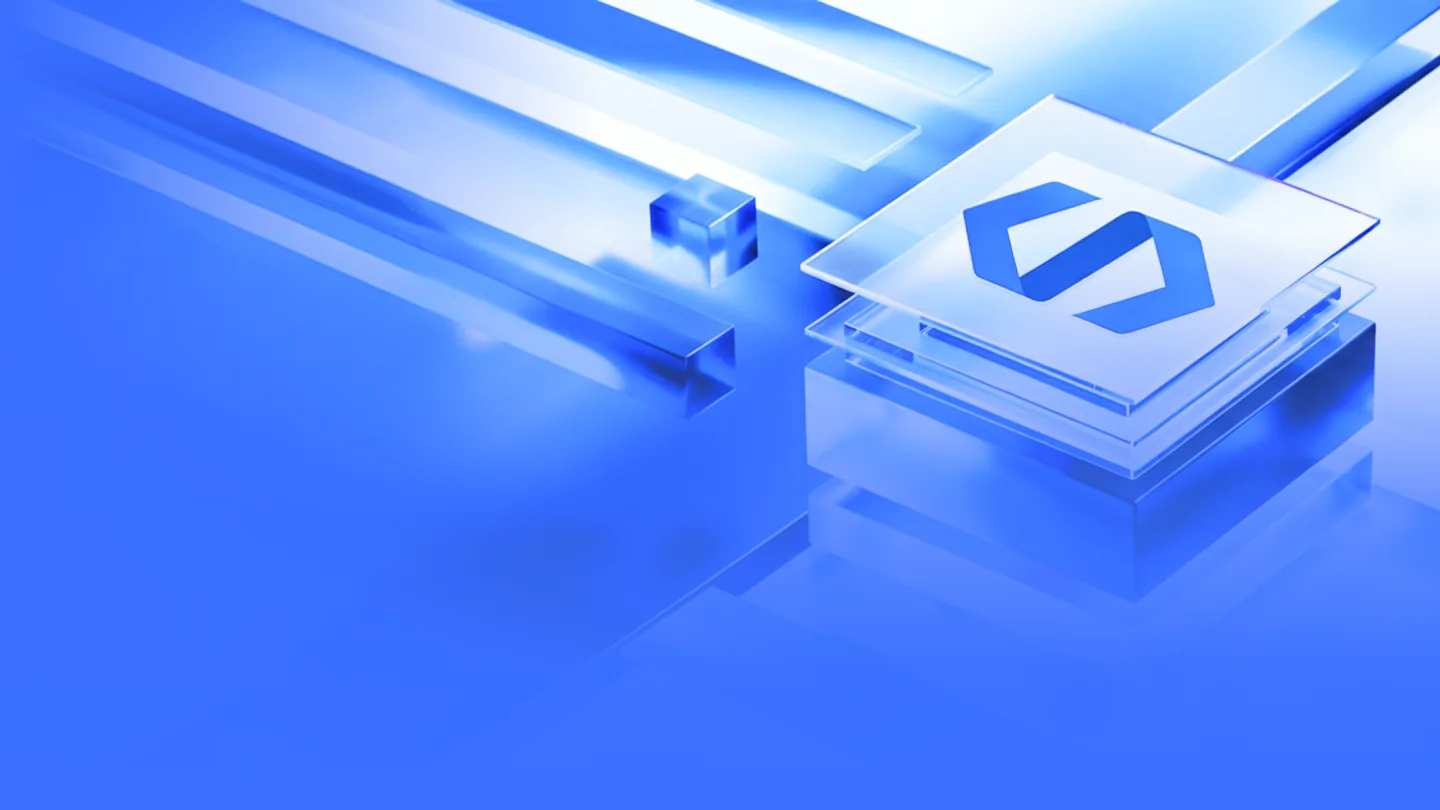
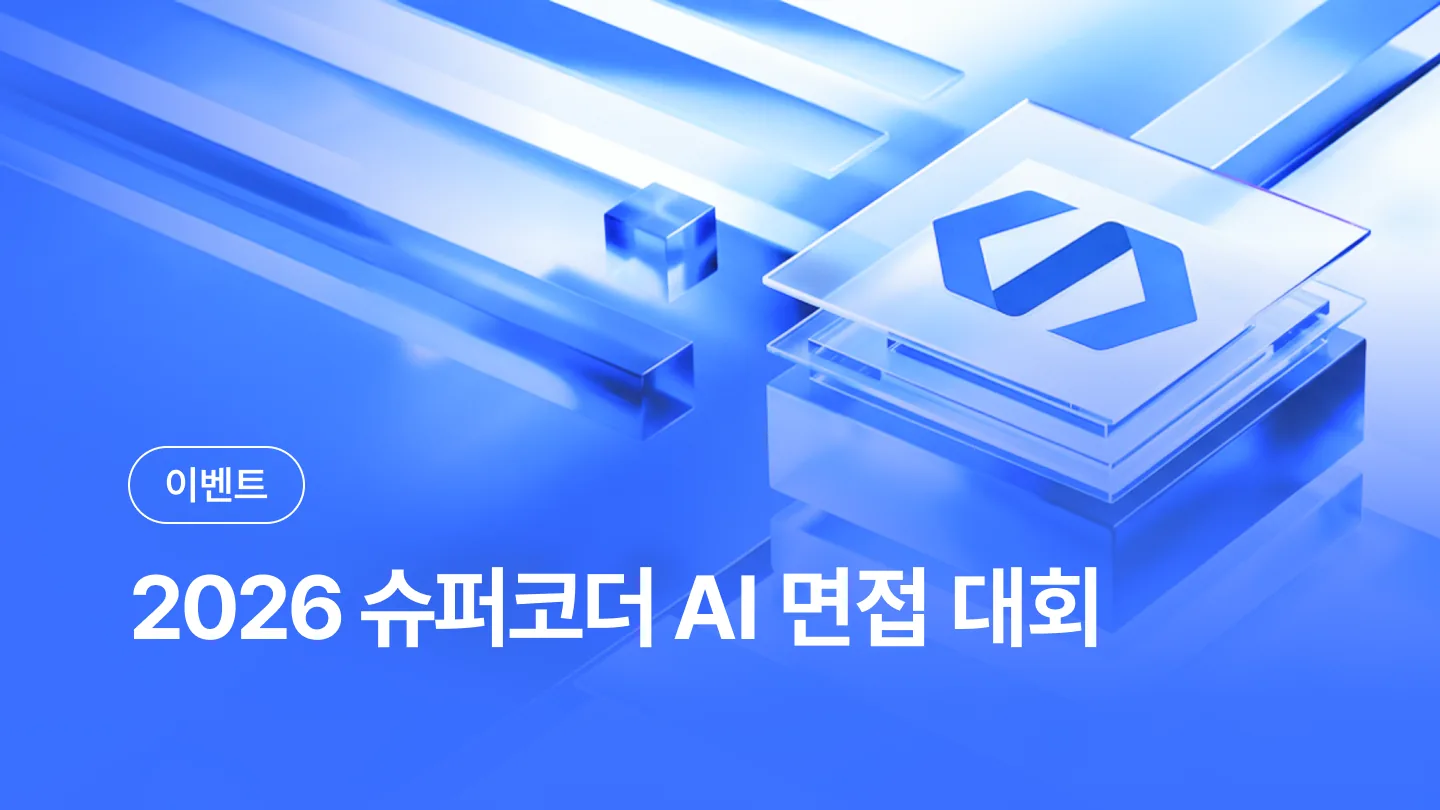
feat: 팝업 이미지 교체 — 칩·행사명이 이미지에 포함된 최종판
사용자 제작 '팝업창 1440x810.png'(PNG 897KB → WebP 48KB, q82).
'이벤트' 칩과 행사명이 이미지 안에 디자인되어 있어 HTML 오버레이
(.evp-visual-txt·칩·타이틀)와 하단 그라데이션을 제거했다 — 남겨두면
글자가 이중으로 겹친다. 행사명은 img alt가 읽는다.
글자 없는 이미지로 되돌릴 땐 2ac2a9d의 오버레이 마크업 참고.

diff --git a/app/globals.css b/app/globals.css
@@ -95,13 +95,10 @@ h2{font-size:clamp(28px,3.6vw,44px);font-weight:700;letter-spacing:-.02em;line-h
 .evp{position:relative;width:min(420px,100%);background:#fff;border-radius:var(--r);overflow:hidden;box-shadow:0 30px 80px -20px rgba(8,13,28,.5);animation:evpUp .3s ease}
 @keyframes evpFade{from{opacity:0}}
 @keyframes evpUp{from{opacity:0;transform:translateY(14px)}}
-/* 비주얼: 16:9 이미지 위에 행사명 오버레이 — 이미지의 주요 요소가 오른쪽 위라 글자는 왼쪽 아래 */
+/* 비주얼: 16:9 이미지 — '이벤트' 칩·행사명이 이미지 안에 디자인되어 있어 오버레이 없음
+   (글자 없는 이미지용 오버레이 마크업·스타일은 git 2ac2a9d 참고) */
 .evp-visual{display:block;position:relative;aspect-ratio:1440/810;overflow:hidden}
 .evp-visual img{position:absolute;inset:0;width:100%;height:100%;object-fit:cover;display:block}
-.evp-visual::after{content:"";position:absolute;inset:0;background:linear-gradient(200deg,transparent 42%,rgba(10,19,48,.42) 100%)}
-.evp-visual-txt{position:absolute;left:22px;bottom:18px;right:22px;z-index:1;display:flex;flex-direction:column;align-items:flex-start;gap:9px}
-.evp-chip{font-size:11px;font-weight:800;letter-spacing:.08em;color:#fff;border:1px solid rgba(255,255,255,.55);border-radius:999px;padding:2px 9px}
-.evp-title{font-size:24px;line-height:1.25;font-weight:800;color:#fff;letter-spacing:-.01em;text-shadow:0 2px 14px rgba(10,19,48,.35)}
 .evp-body{padding:20px 22px 18px;display:flex;flex-direction:column;gap:8px}
 .evp-lead{margin:0;font-size:14px;line-height:1.6;color:var(--ink)}
 .evp-meta{margin:0;font-size:13px;color:var(--slate-2)}
@@ -113,8 +110,6 @@ h2{font-size:clamp(28px,3.6vw,44px);font-weight:700;letter-spacing:-.02em;line-h
 .evp-x{position:absolute;right:12px;top:12px;width:32px;height:32px;border:0;border-radius:9px;background:rgba(10,19,48,.35);color:#fff;font-size:20px;line-height:1;cursor:pointer;backdrop-filter:blur(4px)}
 .evp-x:hover{background:rgba(10,19,48,.55)}
 @media(max-width:480px){
-  .evp-title{font-size:21px}
-  .evp-visual-txt{left:18px;bottom:15px;right:18px}
   .evp-body{padding:18px 18px 14px}
   .evp-foot{padding:0 18px 14px}
 }

diff --git a/components/EventPopup.tsx b/components/EventPopup.tsx
@@ -15,6 +15,9 @@ import { trackEvent } from "@/lib/track";
  * - 비주얼은 팝업 전용 이미지(/event-popup.webp, 사용자 제작 1440×810 — 2026-10-07).
  *   행사 페이지 히어로(/event-hero-v2.webp)와 같은 3D 키비주얼 계열이라 행사로 이어져 읽히되,
  *   파일은 분리 — 팝업 이미지를 바꿔도 히어로가 따라 바뀌지 않는다.
+ *   ⚠ '이벤트' 칩과 행사명이 이미지 안에 디자인되어 있다 — HTML로 칩·행사명을 다시
+ *   얹지 않는다(이중 표기). 대신 img alt가 행사명을 읽는다. 글자 없는 이미지로 되돌리면
+ *   옛 오버레이 마크업·스타일은 git 2ac2a9d 참고.
  * - 행사명·기간·D-day는 전부 lib/events.ts에서 온다. 모집 마감(closed)되면 스스로 사라진다.
  * - '오늘 하루 보지 않기'는 localStorage(KST 날짜), '닫기'는 sessionStorage —
  *   닫아도 다음 방문에는 다시 보이지만, 같은 방문 안에서 다시 뜨지는 않는다.
@@ -101,11 +104,8 @@ export default function EventPopup() {
       >
         {/* 비주얼도 통째로 행사 페이지 링크 — 팝업에서 그림을 누르는 사람이 가장 많다 */}
         <Link href={href} className="evp-visual" onClick={onCta}>
-          <img src="/event-popup.webp" alt="" width={1440} height={810} />
-          <span className="evp-visual-txt">
-            <span className="evp-chip">EVENT</span>
-            <strong className="evp-title">{EVENT.title}</strong>
-          </span>
+          {/* 행사명이 이미지에 들어 있으므로 alt가 그 역할을 한다 */}
+          <img src="/event-popup.webp" alt={`이벤트 — ${EVENT.title}`} width={1440} height={810} />
         </Link>
 
         <div className="evp-body">
